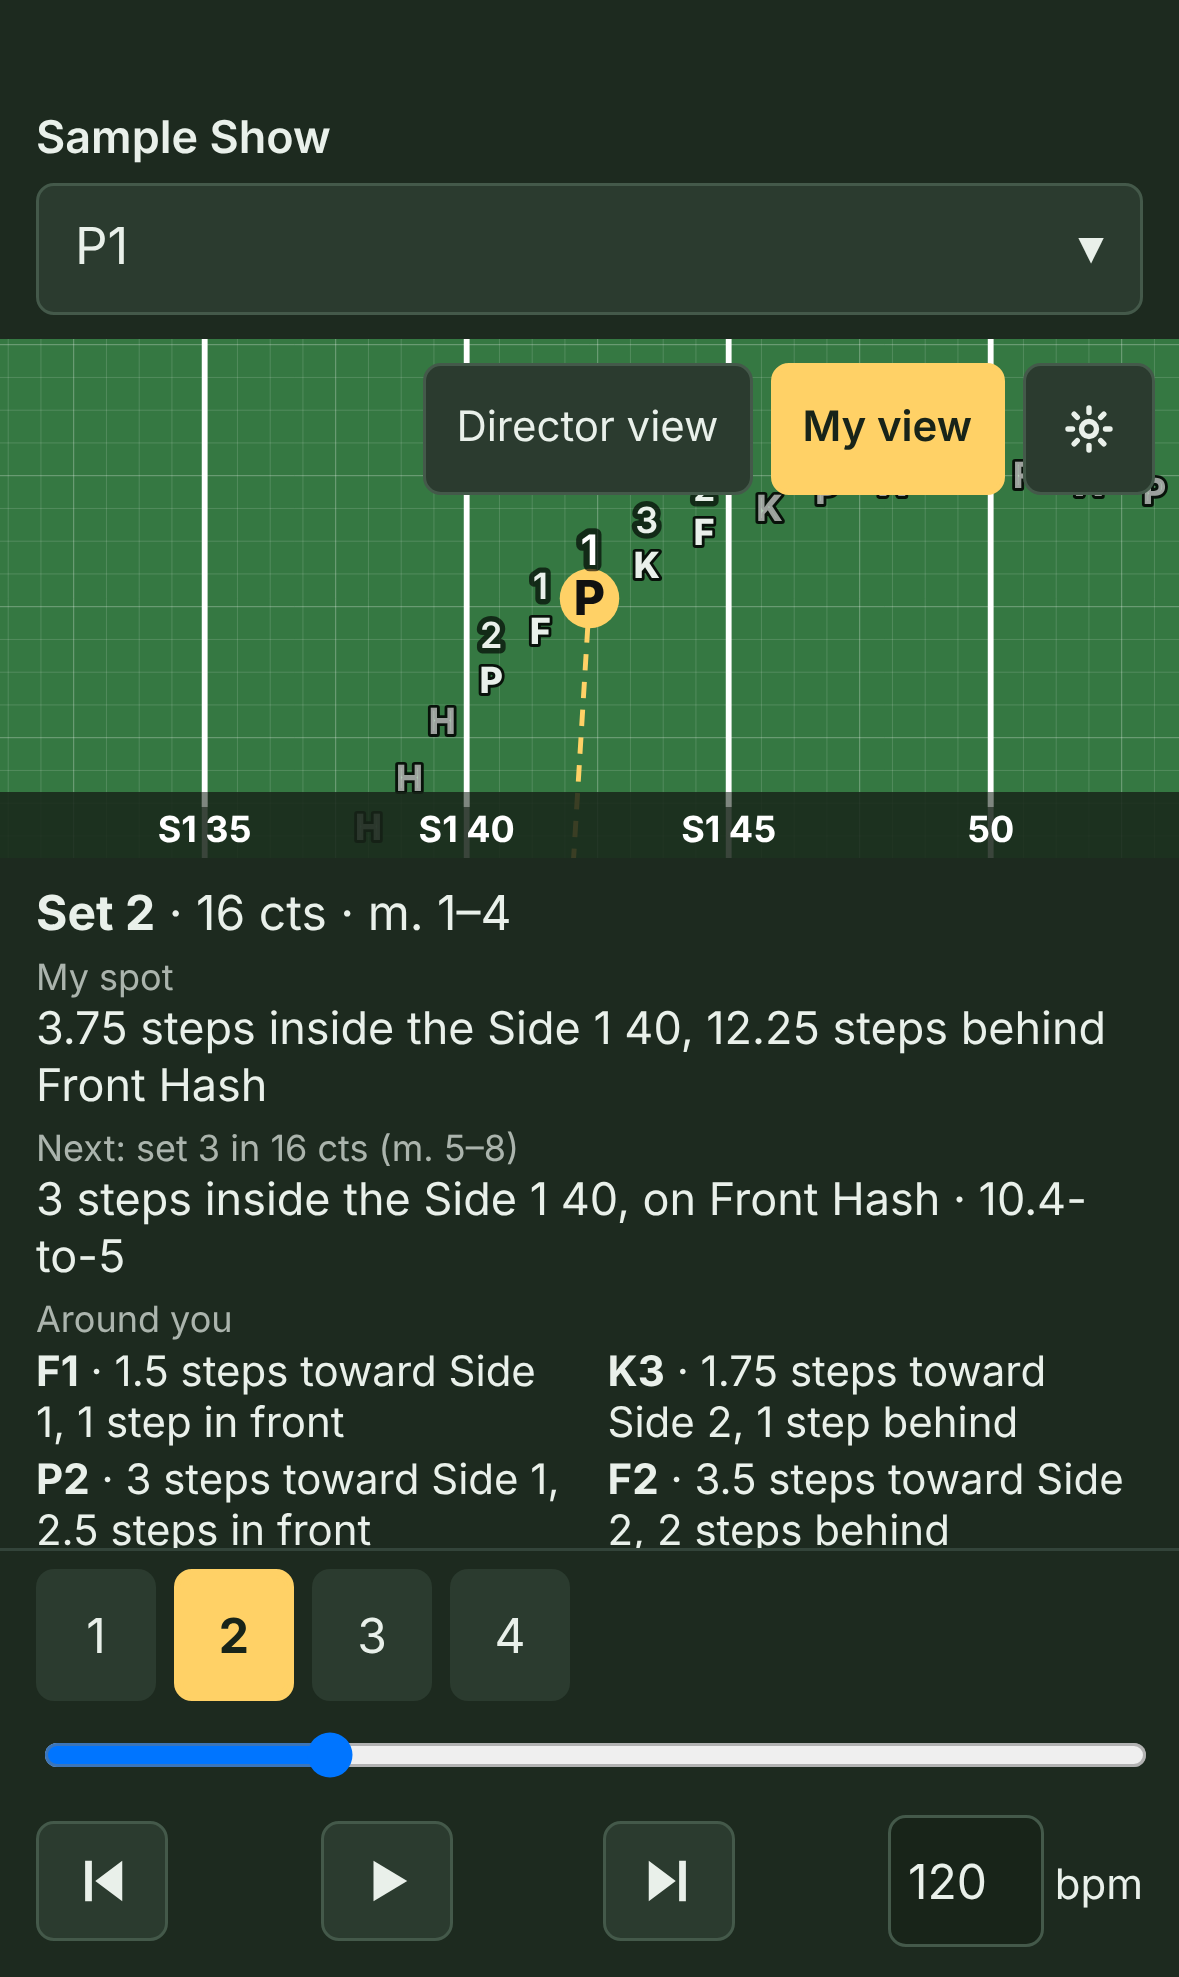
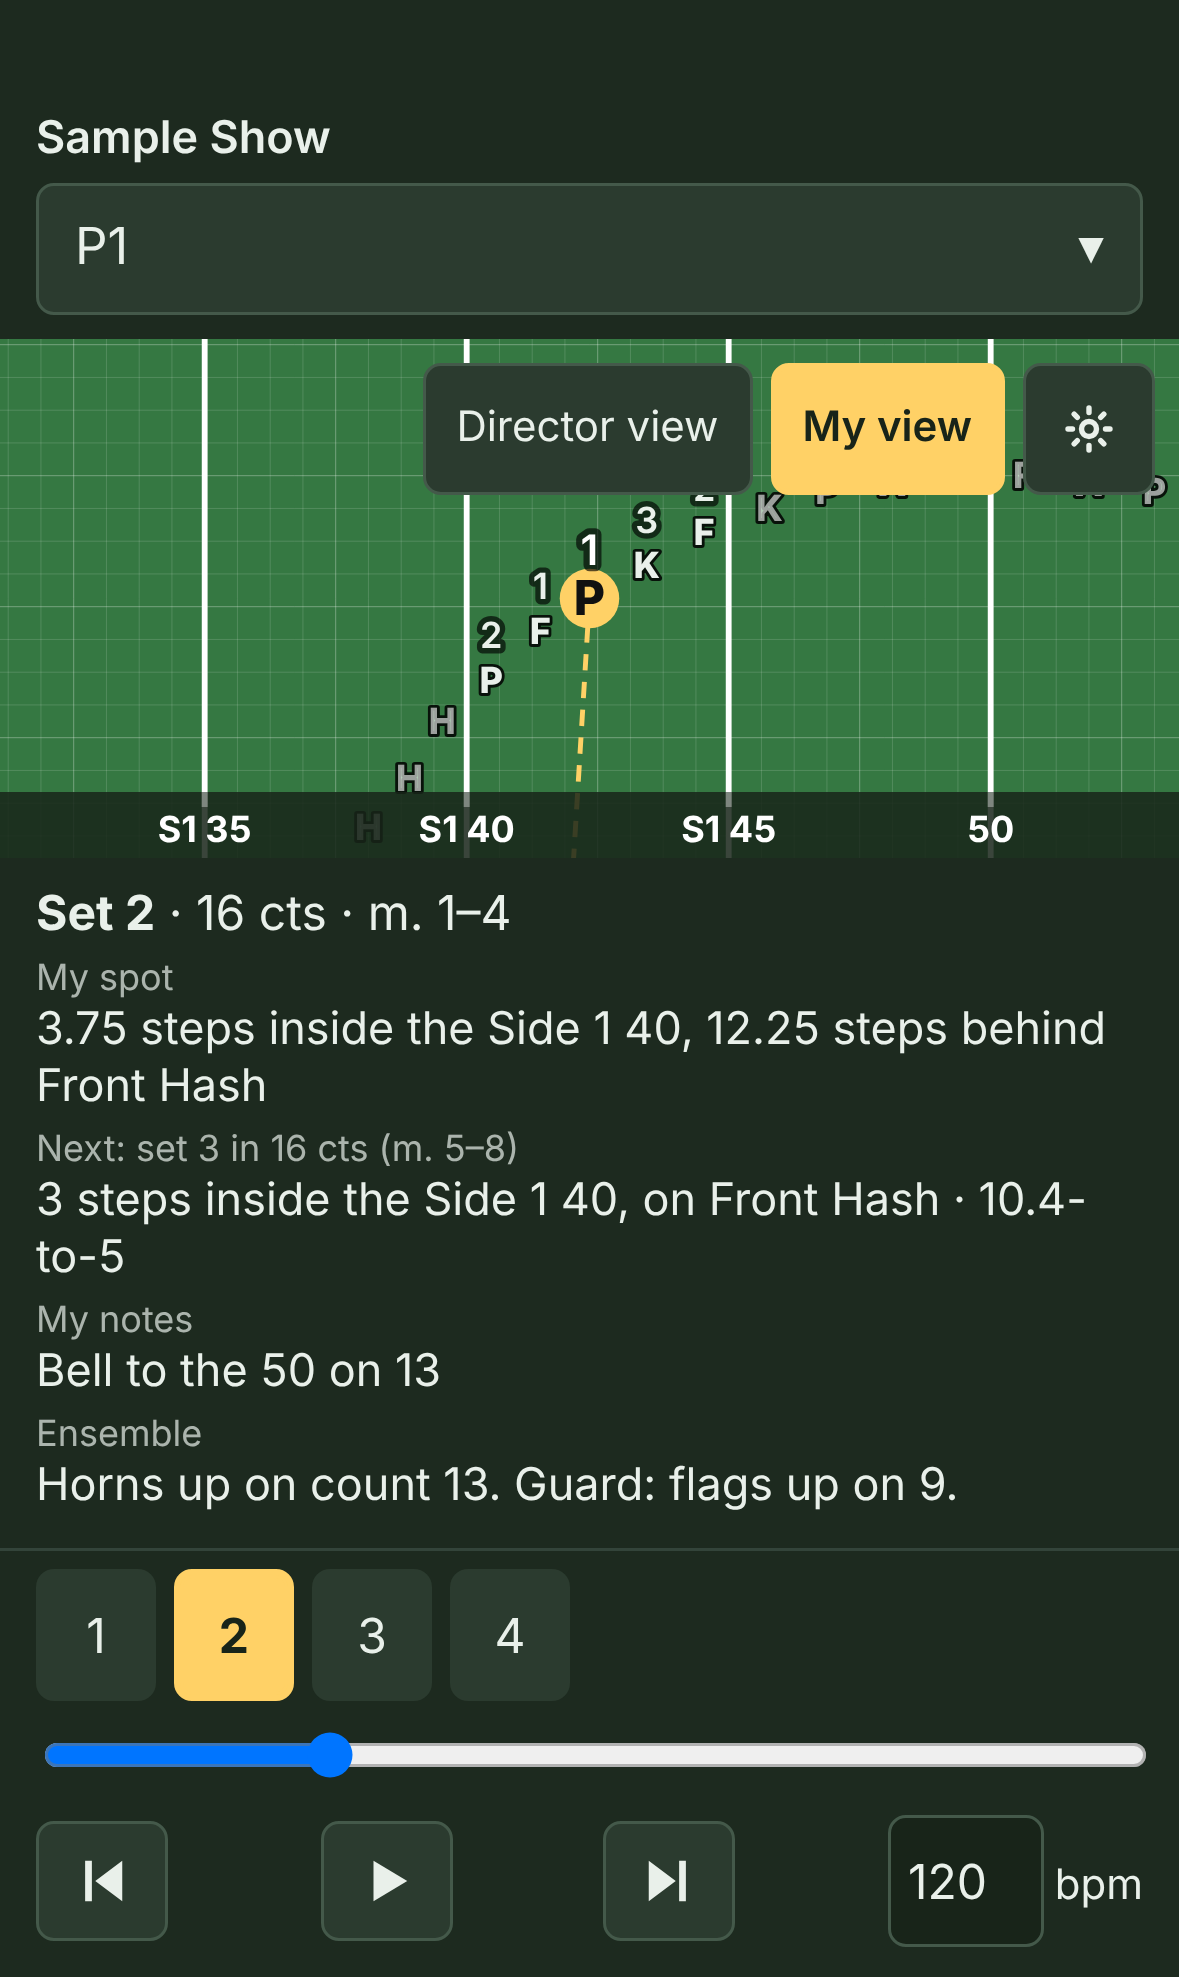
Performer view: no Around you list
Marchers need the spot they're on, their next spot, and the counts to get there (Jason). The list of nearby performers and its helper are gone; neighbors are still drawn brighter on the field. Phone screenshot retaken.

Claude-Session: https://claude.ai/code/session_012ak5ZTJMUhdPSh9n22CtEG

Changed region(s): [[0.0305, 0.648, 0.9466, 0.8022]]

diff --git a/src/perform/Perform.tsx b/src/perform/Perform.tsx
@@ -6,14 +6,14 @@ import { fieldDepth, readout, type Point } from '../engine/coords';
 import { decodeShow, fetchHosted, LOAD_PREFIX, linkHash, parseHosted, SHARE_PREFIX } from '../engine/share';
 import { Scanner } from './Scanner';
 import { isPhone } from './device';
-import { colorOf, equipmentIn, fieldOf, propsAt, equipmentName, facingIn, facingName, facingVector, label, locate, mark, moveSteps, timingOf, parseShow, positionsAt, setAt, setStarts, showLength, type Show } from '../engine/show';
+import { colorOf, equipmentIn, fieldOf, propsAt, equipmentName, facingIn, facingName, facingVector, locate, mark, moveSteps, timingOf, parseShow, positionsAt, setAt, setStarts, showLength, type Show } from '../engine/show';
 import { drawField, drawGlyph, drawLabels, drawMarks, drawFacing, drawIcon, drawPerformers, drawProps, fitView, STEP_TEXT, toScreen, type View } from '../field/drawField';
 import { fmtStep } from '../ui/format';
 import { usePlayback } from '../ui/usePlayback';
 import { synced } from '../engine/music';
 import { deleteAudio, getAudio, putAudio } from '../ui/audioStore';
 import { IconNext, IconPause, IconPlay, IconPrev } from '../ui/icons';
-import { describe, nearest, yardLabel } from './neighbors';
+import { nearest, yardLabel } from './neighbors';
 import { panCenter, pinchZoom, ZOOM_MAX } from './gestures';
 import { WhoPicker } from './WhoPicker';
 import { NumberField } from '../ui/NumberField';
@@ -373,16 +373,6 @@ export function Perform() {
                 {facingIn(show, next, me.id) && facingIn(show, next, me.id) !== facingIn(show, cur, me.id) && <span> · face {facingName(facingIn(show, next, me.id)!)}</span>}
                 {equipmentIn(show, next, me.id) !== equipmentIn(show, cur, me.id) && <span> · {equipmentIn(show, next, me.id) ? `pick up ${equipmentName(equipmentIn(show, next, me.id)!).toLowerCase()}` : 'put down equipment'}</span>}
               </p>
-            )}
-            {around.length > 0 && (
-              <div className="perform-note">
-                <span className="perform-k">Around you</span>
-                <ul className="perform-around">
-                  {around.map((n) => (
-                    <li key={n.id}><strong>{label(show, show.performers.find((x) => x.id === n.id)!)}</strong> · {describe(n.dx, n.dy)}</li>
-                  ))}
-                </ul>
-              </div>
             )}
             {myCue(cur) && <p className="perform-note"><span className="perform-k">My notes</span> {myCue(cur)}</p>}
           </>

diff --git a/src/perform/neighbors.test.ts b/src/perform/neighbors.test.ts
@@ -1,19 +1,11 @@
 import { expect, it } from 'vitest';
-import { describe as where, nearest, yardLabel } from './neighbors';
+import { nearest, yardLabel } from './neighbors';
 
 it('finds the closest performers, nearest first, within range', () => {
   const pos = { me: { x: 0, y: 20 }, a: { x: -4, y: 20 }, b: { x: 2, y: 20 }, c: { x: 0, y: 26 }, far: { x: 30, y: 20 } };
   expect(nearest(pos, 'me').map((n) => n.id)).toEqual(['b', 'a', 'c']);
   expect(nearest(pos, 'me', 2).map((n) => n.id)).toEqual(['b', 'a']);
   expect(nearest(pos, 'nobody')).toEqual([]);
-});
-
-it('describes where a neighbor is in field directions', () => {
-  expect(where(-4, 0)).toBe('4 steps toward Side 1');
-  expect(where(2, -4)).toBe('2 steps toward Side 2, 4 steps in front');
-  expect(where(0, 1)).toBe('1 step behind');
-  expect(where(0.05, 0)).toBe('same spot');
-  expect(where(-2.3, 0)).toBe('2.25 steps toward Side 1');
 });
 
 it('labels yard lines for the ruler', () => {

diff --git a/src/perform/neighbors.ts b/src/perform/neighbors.ts
@@ -15,17 +15,6 @@ export function nearest(pos: Record<string, Point>, me: string, n = 4, within = 
     .slice(0, n);
 }
 
-const q = (v: number) => Math.round(Math.abs(v) * 4) / 4;
-const steps = (v: number) => `${q(v)} step${q(v) === 1 ? '' : 's'}`;
-
-/** e.g. "4 steps toward Side 1", "2 steps toward Side 2, 4 steps in front", "same spot". Front = toward the front sideline. */
-export function describe(dx: number, dy: number): string {
-  const parts: string[] = [];
-  if (q(dx)) parts.push(`${steps(dx)} toward Side ${dx < 0 ? 1 : 2}`);
-  if (q(dy)) parts.push(`${steps(dy)} ${dy < 0 ? 'in front' : 'behind'}`);
-  return parts.join(', ') || 'same spot';
-}
-
 /** Ruler label for the yard line at x steps from the 50 (multiples of 8): "50", "S1 40", "G" for goal lines. */
 export function yardLabel(x: number): string {
   const yd = 50 - Math.abs(x) / 1.6;

diff --git a/index.html b/index.html
@@ -134,7 +134,6 @@
       .perform-sets button[aria-pressed=true] { border-color: var(--gold); font-weight: bold; }
       .perform-buttons { display: flex; gap: 8px; align-items: center; justify-content: space-between; }
       .perform-empty { padding: 24px; max-width: 32em; margin: auto; }
-      .perform-around { margin: 2px 0 0; padding: 0; list-style: none; display: grid; grid-template-columns: 1fr 1fr; gap: 2px 12px; font-size: 14px; }
       @media screen and (orientation: landscape) {
         .perform { display: grid; grid-template-columns: 1fr minmax(260px, 34%); grid-template-rows: auto 1fr auto auto; }
         .perform-bar { grid-column: 1 / -1; }

diff --git a/docs/HOW-TO.md b/docs/HOW-TO.md
@@ -388,8 +388,7 @@ On the performer screen:
 
 - **My view** follows their dot through each move. **Whole field** shows everything, and pinch-zoom works in both.
 - **Director view** shows the field the way the editor does. Tap it to switch to **Facing front**, which turns the field around to match what they see facing the audience.
-- Under the field they see their spot now and in the next set, with counts, measures, and step size, plus their notes and the ensemble notes.
-- **Around you** lists their nearest neighbors (up to four, within 10 steps) and where each one is, like "P5 · 4 steps toward Side 1."
+- Under the field they see the spot they're standing on, then their next spot and how many counts it takes to get there (with measures and step size), plus their notes and the ensemble notes. On the field, the performers closest to them are drawn a little brighter and labeled.
 - They can play at any tempo, step count by count, scrub, or tap a set number to jump to it. If the show has music, Play follows it, and **♪ Music** switches back to a tempo.
 
 Students can add FreeFORM to their home screen. In the home-screen app, they open a show with **Scan QR code** or by pasting the link.

diff --git a/DECISIONS.md b/DECISIONS.md
@@ -1131,3 +1131,7 @@ Each entry: timestamp, who decided, context, options considered, decision.
 ## 2026-11-05 18:45 EST — Equipment icons only
 - **Who:** Jason Tiller didn't like the instrument icons (and had asked for equipment icons).
 - **Decision:** The third choice is **Equipment icons**: anyone carrying a flag, rifle, or saber is drawn as it, and everyone else keeps their letter. The instrument pictograms and the section-name matching are removed. If instrument icons come back, they get designed with Jason from references he picks.
+
+## 2026-11-05 19:00 EST — A simpler performer view
+- **Who:** Jason Tiller: marchers don't need the list of who's around them; they need the spot they're on, their next spot, and the counts to get there.
+- **Decision:** The **Around you** list is gone from the phone's performer view (and its helper). The current spot and the next spot with its counts lead the panel. Kept, as Claude's call *(Jason can veto)*: the nearest neighbors still drawn brighter and labeled on the field, and the short extras on the next-spot line (step size, a step-off, a facing or equipment change) and the notes, since they're part of getting to that spot.

diff --git a/README.md b/README.md
@@ -54,7 +54,7 @@ A note on where the ideas came from: FreeFORM is modeled on Pyware and the Ultim
 - Dot sheets (four cards per page, or one per page with a notes column) and drill charts (one per set, with or without the paths into it), printed or saved as PDF.
 - Share links with a QR code. The whole show is in the link, with no server involved.
 - Locked hosted links that update themselves on phones, can carry the music, and keep names private. One-click publishing to your own GitHub repository.
-- A performer view for phones: pick who you are, follow your dot, see your next spot and step size, and see who's around you. It works offline once it's opened.
+- A performer view for phones: pick who you are, follow your dot, and see your spot now, your next spot, and the counts to get there. It works offline once it's opened.
 
 **Files**
 - Autosave in your browser, plus export and import of `.freeform` files.
